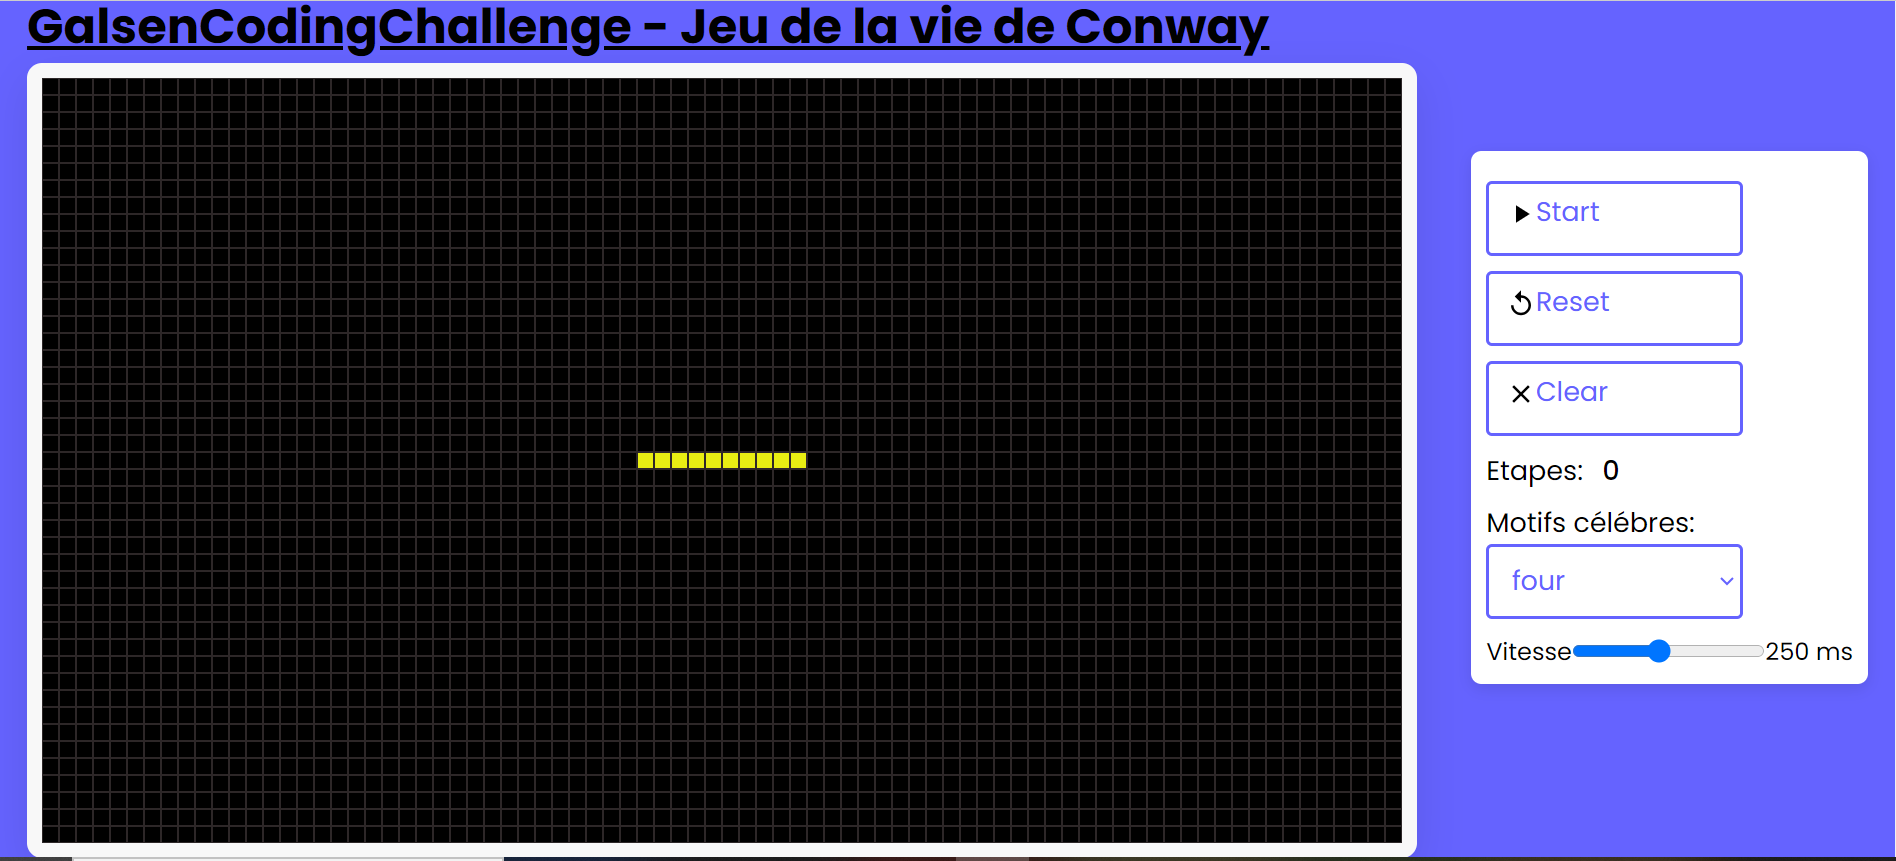
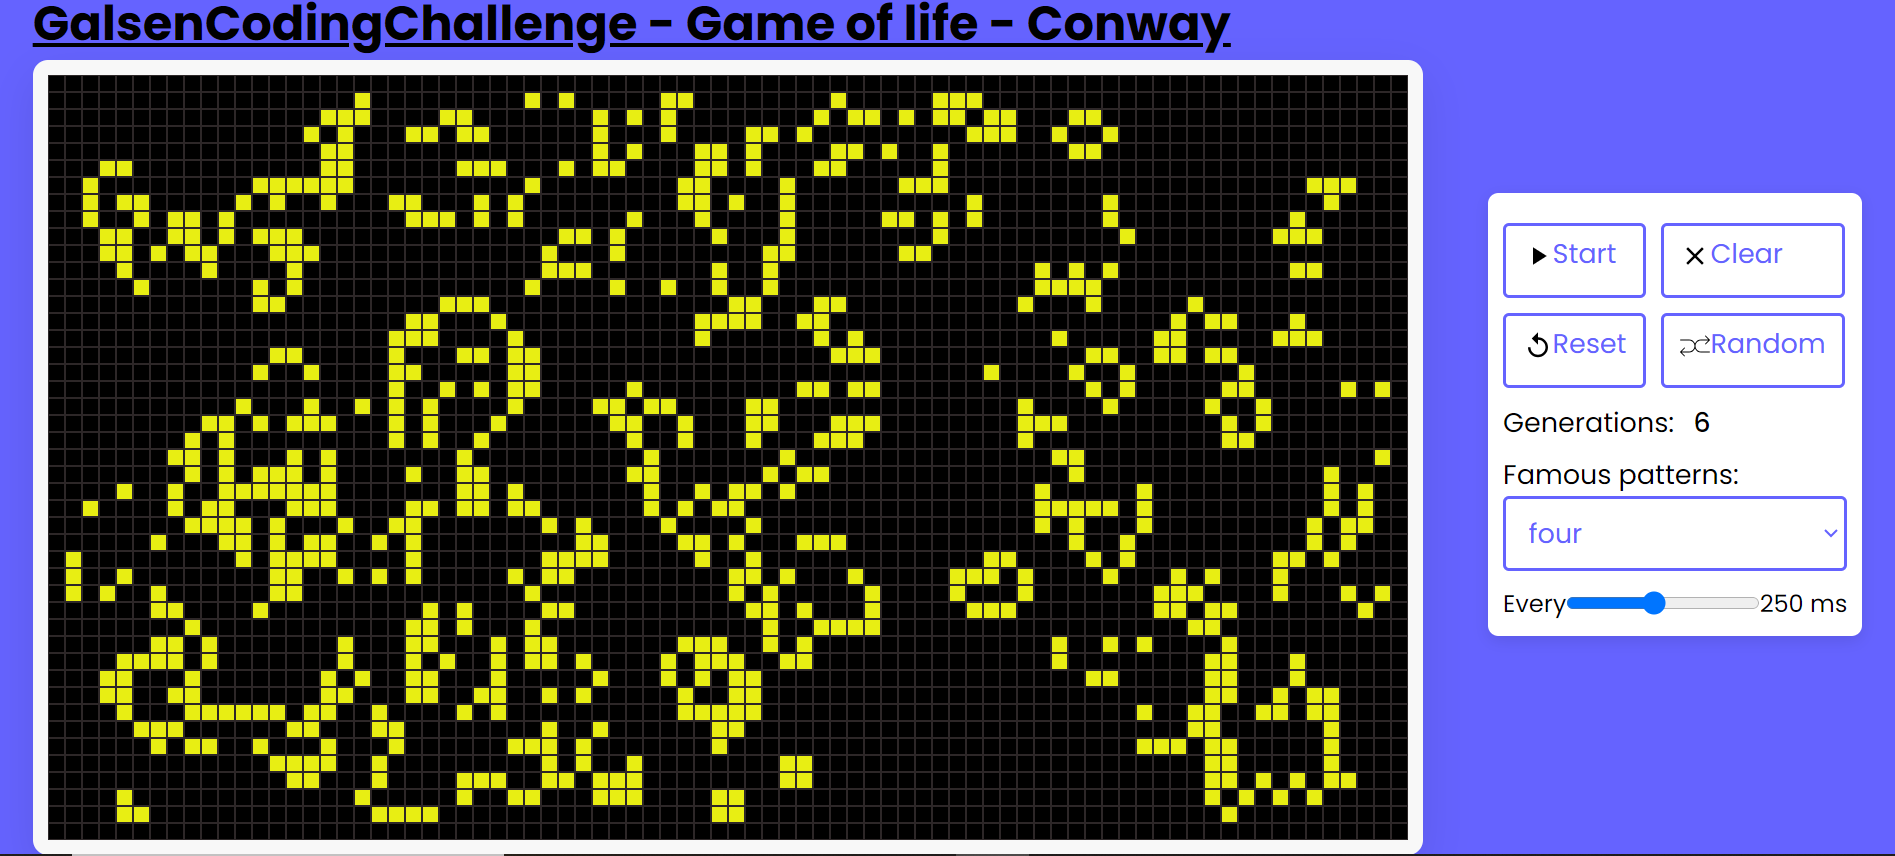
option random ajouter apres ultimatum

diff --git a/index.html b/index.html
@@ -11,7 +11,7 @@
 
     <div class="container">
       <div class="title">
-        <h1> GalsenCodingChallenge - Jeu de la vie de Conway</h1>
+        <h1> GalsenCodingChallenge - Game of life - Conway</h1>
       </div>
       <div class="wrapper">
         <ul class="conteneur-grid"></ul>
@@ -20,67 +20,93 @@
 
     <div class="details">
       <div class="buttons">
-        <button class="start-stop">
-          <div >
-            <svg
-              class="play visible"
-              xmlns="http://www.w3.org/2000/svg"
-              height="24"
-              viewBox="0 0 24 24"
-              width="24"
-            >
-              <path d="M0 0h24v24H0z" fill="none"></path>
-              <path d="M8 5v14l11-7z"></path>
-            </svg>
-          </div>
-          <p>Start</p>
-        </button>
-        <button class="reset">
-          <div>
-            <svg
-              class="replay visible"
-              xmlns="http://www.w3.org/2000/svg"
-              height="24"
-              viewBox="0 0 24 24"
-              width="24"
-            >
-              <path d="M0 0h24v24H0z" fill="none"></path>
-              <path
-                d="M12 5V1L7 6l5 5V7c3.31 0 6 2.69 6 6s-2.69 6-6 6-6-2.69-6-6H4c0 4.42 3.58 8 8 8s8-3.58 8-8-3.58-8-8-8z"
-              ></path>
-            </svg>
-          </div>
-          <p>Reset</p>
-        </button>
-        <button class="clear">
-          <div>
-            <svg
-              class="close visible"
-              xmlns="http://www.w3.org/2000/svg"
-              height="24"
-              viewBox="0 0 24 24"
-              width="24"
-            >
-              <path d="M0 0h24v24H0z" fill="none"></path>
-              <path
-                d="M19 6.41L17.59 5 12 10.59 6.41 5 5 6.41 10.59 12 5 17.59 6.41 19 12 13.41 17.59 19 19 17.59 13.41 12z"
-              ></path>
-            </svg>
-          </div>
-          <p>Clear</p>
-        </button>
+        <div class="one">
+          <button class="start-stop">
+            <div >
+              <svg
+                class="play visible"
+                xmlns="http://www.w3.org/2000/svg"
+                height="24"
+                viewBox="0 0 24 24"
+                width="24"
+              >
+                <path d="M0 0h24v24H0z" fill="none"></path>
+                <path d="M8 5v14l11-7z"></path>
+              </svg>
+            </div>
+            <p>Start</p>
+          </button>
+          <button class="reset">
+            <div>
+              <svg
+                class="replay visible"
+                xmlns="http://www.w3.org/2000/svg"
+                height="24"
+                viewBox="0 0 24 24"
+                width="24"
+              >
+                <path d="M0 0h24v24H0z" fill="none"></path>
+                <path
+                  d="M12 5V1L7 6l5 5V7c3.31 0 6 2.69 6 6s-2.69 6-6 6-6-2.69-6-6H4c0 4.42 3.58 8 8 8s8-3.58 8-8-3.58-8-8-8z"
+                ></path>
+              </svg>
+            </div>
+            <p>Reset</p>
+          </button>
+        </div>
+        <div class="two">
+          <button class="clear">
+            <div>
+              <svg
+                class="close visible"
+                xmlns="http://www.w3.org/2000/svg"
+                height="24"
+                viewBox="0 0 24 24"
+                width="24"
+              >
+                <path d="M0 0h24v24H0z" fill="none"></path>
+                <path
+                  d="M19 6.41L17.59 5 12 10.59 6.41 5 5 6.41 10.59 12 5 17.59 6.41 19 12 13.41 17.59 19 19 17.59 13.41 12z"
+                ></path>
+              </svg>
+            </div>
+            <p>Clear</p>
+          </button>
+          <button class="random">
+            <div>
+              <svg 
+                height="24" 
+                width="24" 
+                xmlns="http://www.w3.org/2000/svg" 
+                xmlns:xlink="http://www.w3.org/1999/xlink" 
+                viewBox="0 0 60 60" 
+                xml:space="preserve"
+              >
+              <path d="M59,41H42c-6.065,0-11-4.935-11-11s4.935-11,11-11h14.586l-6.293,6.293c-0.391,0.391-0.391,1.023,0,1.414
+                C50.488,26.902,50.744,27,51,27s0.512-0.098,0.707-0.293l7.999-7.999c0.093-0.092,0.166-0.203,0.217-0.326
+                c0.101-0.244,0.101-0.519,0-0.764c-0.051-0.123-0.125-0.234-0.217-0.326l-7.999-7.999c-0.391-0.391-1.023-0.391-1.414,0
+                s-0.391,1.023,0,1.414L56.586,17H42c-5.4,0-10.039,3.311-12,8.008C28.039,20.311,23.4,17,18,17H1c-0.553,0-1,0.447-1,1s0.447,1,1,1
+                h17c6.065,0,11,4.935,11,11s-4.935,11-11,11H3.414l6.293-6.293c0.391-0.391,0.391-1.023,0-1.414s-1.023-0.391-1.414,0l-7.999,7.999
+                c-0.093,0.092-0.166,0.203-0.217,0.326c-0.101,0.244-0.101,0.52,0,0.764c0.051,0.123,0.124,0.234,0.217,0.326l7.999,7.999
+                C8.488,50.902,8.744,51,9,51s0.512-0.098,0.707-0.293c0.391-0.391,0.391-1.023,0-1.414L3.414,43H18c5.4,0,10.039-3.311,12-8.008
+                C31.961,39.689,36.6,43,42,43h17c0.553,0,1-0.447,1-1S59.553,41,59,41z"/>
+              </svg>
+            </div>
+            <p>Random</p>
+          </button>
+        </div>
       </div>
       <div class="details-plus">
         <p class="steps">
-          Etapes: <span><b>0</b></span>
+          Generations: <span><b>0</b></span>
         </p>
         <div>
-          <p>Motifs célébres:</p>
+          <p>Famous patterns:</p>
           <select name="pattern" id="pattern" form="patternform">
           </select>
         </div>
         <div class="speed-control">
-          <label for="speed">Vitesse</label>
+          <label for="speed">Every</label>
           <input type="range" id="speed" name="speed" min="50" max="500" step="50" class="speed-control_input" value="250">
           <span>250 ms</span>
         </div>

diff --git a/js/script.js b/js/script.js
@@ -3,6 +3,7 @@ stepsTag = document.querySelector(".steps b");
 startStopBtn = document.querySelector(".start-stop");
 resetBtn = document.querySelector(".reset");
 clearBtn = document.querySelector(".clear");
+randomBtn = document.querySelector(".random");
 selectTag = document.querySelector("select");
 speedControleTag = document.querySelector(".speed-control");
 
@@ -76,6 +77,17 @@ function cellListener() {
     });
 }
 
+function startStop(fromStartStopBtn) {
+    if (!interval && fromStartStopBtn) {
+        interval = start(makedMatrix, maximumGenerationStep, shape);
+        startStopBtn.querySelector('p').innerHTML = "Stop";
+    } else {
+        interval = clearInterval(interval);
+        startStopBtn.querySelector('p').innerHTML = "Start";
+    }
+    cellListener();
+}
+
 for(const pattern in patterns){
     selectTag.innerHTML += "<option value='"+ pattern +"'>"+ pattern +"</option>";
 }
@@ -90,18 +102,12 @@ speedControleTag.querySelector("input").addEventListener("change", () => {
 
 });
 
-startStopBtn.addEventListener("click", ()=>{
-    if (!interval) {
-        interval = start(makedMatrix, maximumGenerationStep, shape);
-        startStopBtn.querySelector('p').innerHTML = "Stop";
-    } else {
-        interval = clearInterval(interval);
-        startStopBtn.querySelector('p').innerHTML = "Start";
-    }
-    cellListener();
+startStopBtn.addEventListener("click", () => {
+    startStop(true);
 });
 
 resetBtn.addEventListener("click", () => {
+    startStop(false);
     currenStep = 0;
     makedMatrix = makeMatrix(initialPattern, shape);
     printGridFromMatrix(makedMatrix, shape);
@@ -110,7 +116,23 @@ resetBtn.addEventListener("click", () => {
 });
 
 clearBtn.addEventListener("click", () => {
+    startStop(false);
     changePattern([[]]);
+});
+
+randomBtn.addEventListener("click", () => {
+    startStop(false);
+    randomPattern = [Array(shape[1]).fill(0)];
+    for (let i = 1; i < shape[0] - 1; i++) {
+        const element = [0];
+        for (let j = 1; j < shape[1] - 1; j++) {
+            Math.random() > 0.5 ? element.push(1) : element.push(0);
+        }
+        element.push(0)
+        randomPattern.push(element);
+    }
+    randomPattern.push(Array(shape[1]).fill(0));
+    changePattern(randomPattern);
 });
 
 cellListener();

diff --git a/css/style.css b/css/style.css
@@ -27,13 +27,16 @@ body {
 .title {
   text-decoration: underline;
 }
-.start-stop, .reset, .clear  {
+.start-stop, .reset, .clear, .random  {
   display: flex; 
   align-items: center;
 
   div {
     color: #6563ff
   }
+}
+.one {
+  margin-right: 10px;
 }
 .speed-control {
   display: flex;
@@ -81,7 +84,7 @@ body {
   box-shadow: 0 3px 10px rgba(0, 0, 0, 0.1);
 }
 .buttons {
-  display: block;
+  display: flex;
 }
 
 .details p {
@@ -100,7 +103,7 @@ body {
   font-size: 14px;
   color: #6563ff;
   border-radius: 4px;
-  width: 70%;
+  width: 100%;
   height: 50px;
   padding: 4px 11px;
   margin: 10px 0;

diff --git a/README.md b/README.md
@@ -33,6 +33,8 @@ Solution web avec :
 
 - Le Menu déroulant qui se situe en bas du bouton **Clear** permet de choisir parmis des motifs trés célébres du jeu de la vie de Conway.
 
+- Le boutton **Random** permet de génerer un tableau aleatoire.
+
 - L'utilisateur a aussi la possibilité de controller la vitesse de simulation
 
 
